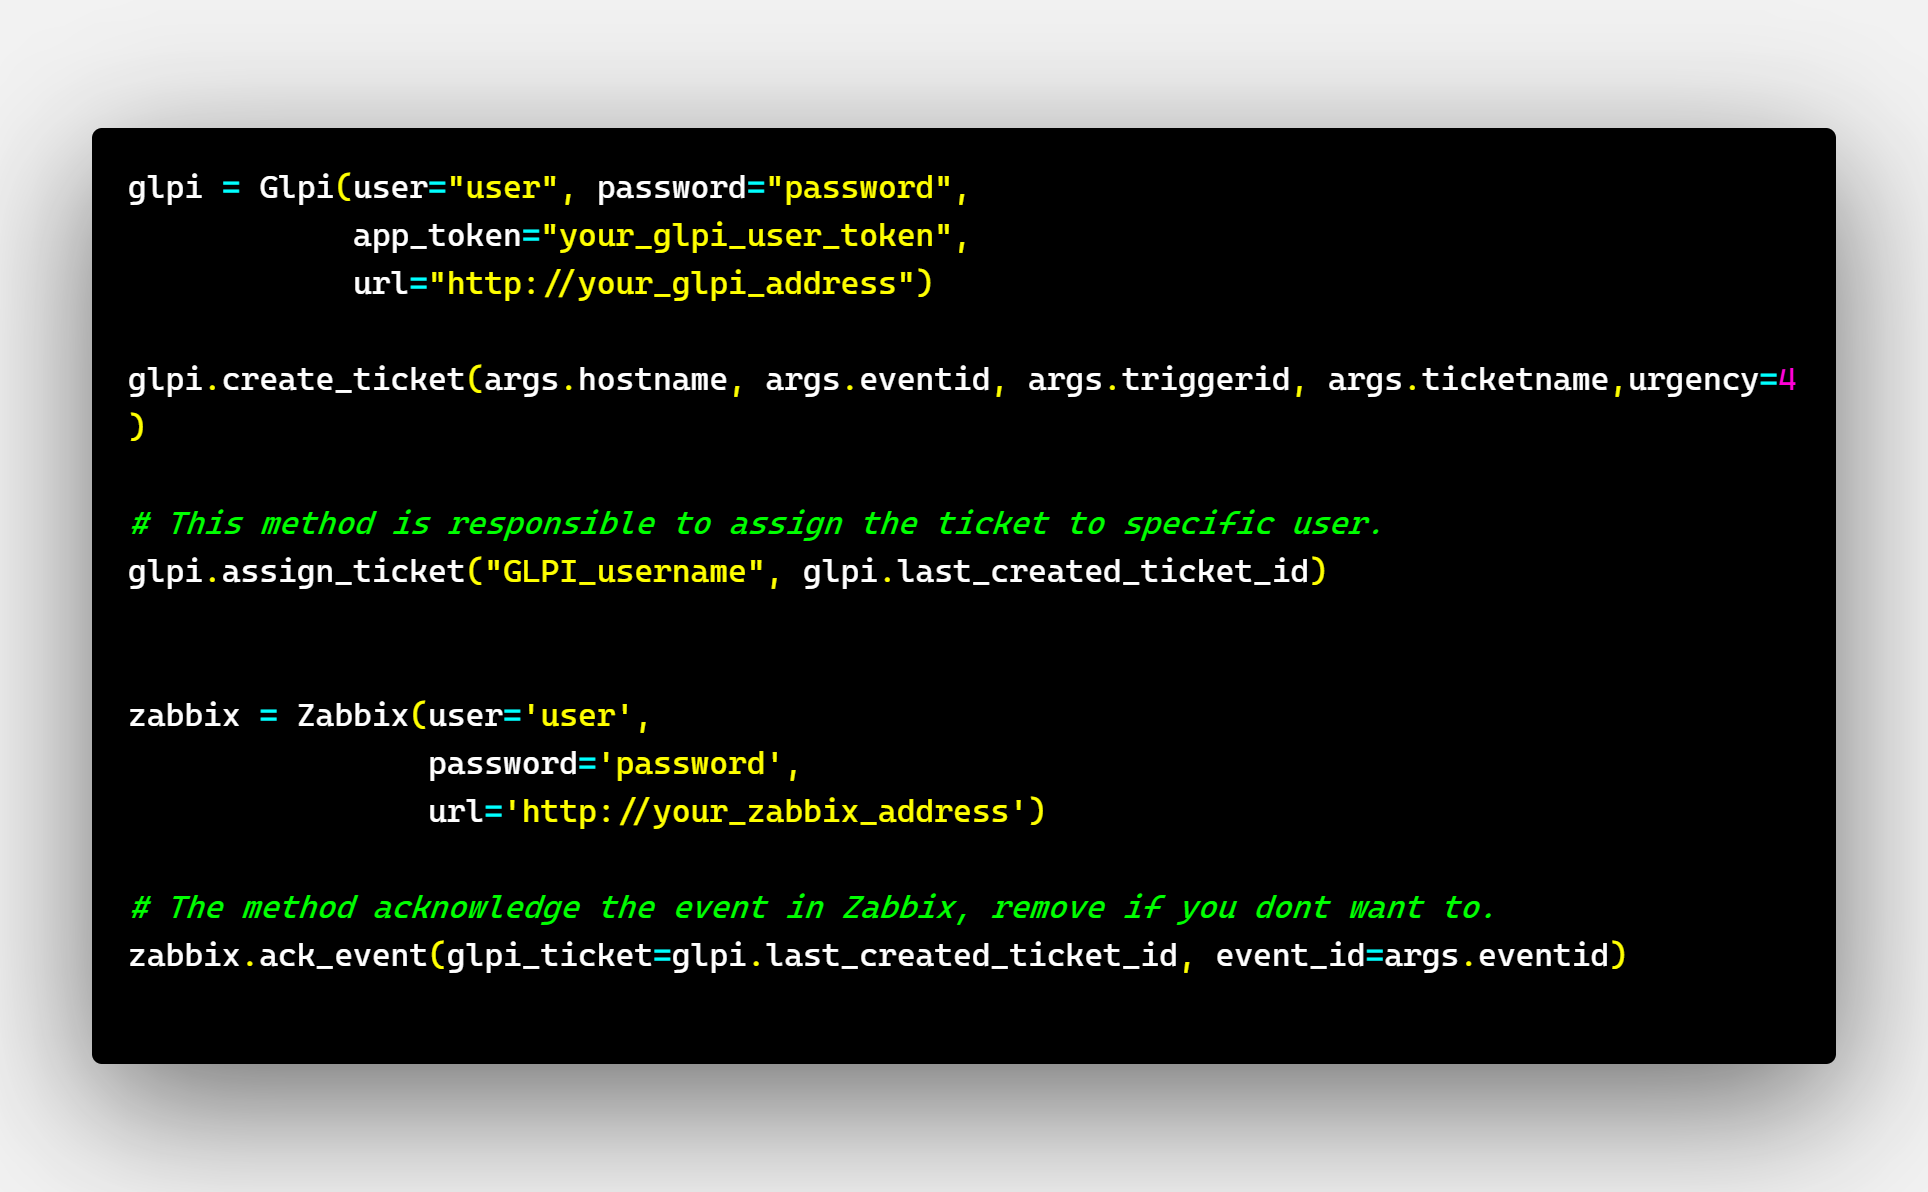
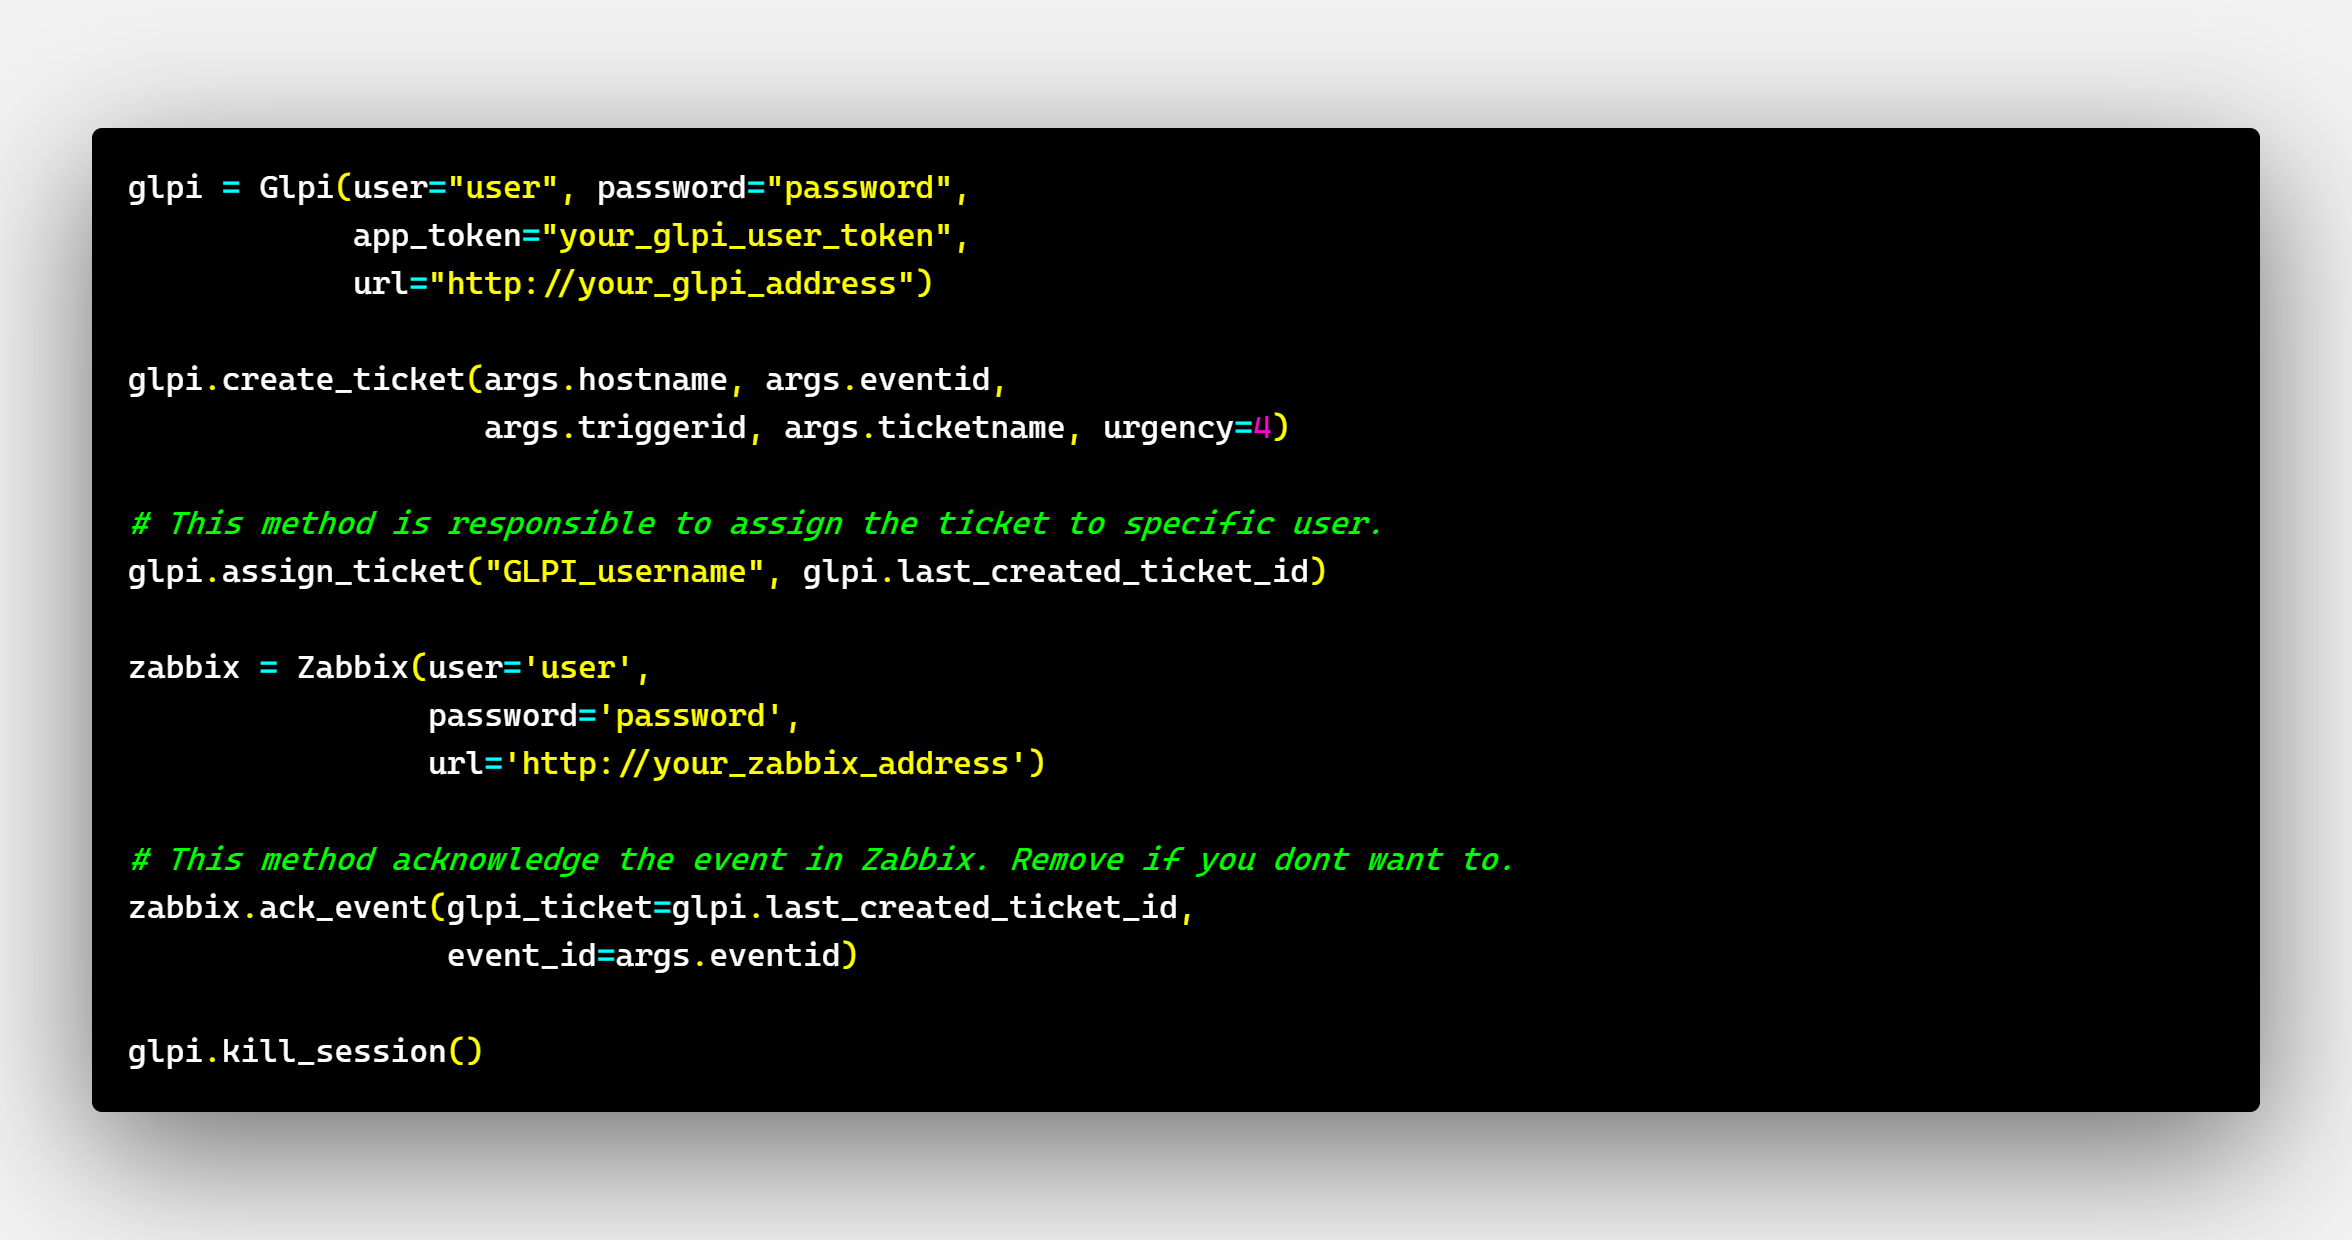
Image Fix

Changed region(s): [[0.0311, 0.0931, 0.9647, 0.9002]]

diff --git a/glpi_ticket.py b/glpi_ticket.py
@@ -69,7 +69,7 @@ def main():
                     password='password',
                     url='http://your_zabbix_address')
 
-    # The method acknowledge the event in Zabbix, remove if you dont want to.
+    # This method acknowledge the event in Zabbix. Remove if you dont want to.
     zabbix.ack_event(glpi_ticket=glpi.last_created_ticket_id,
                      event_id=args.eventid)
 
